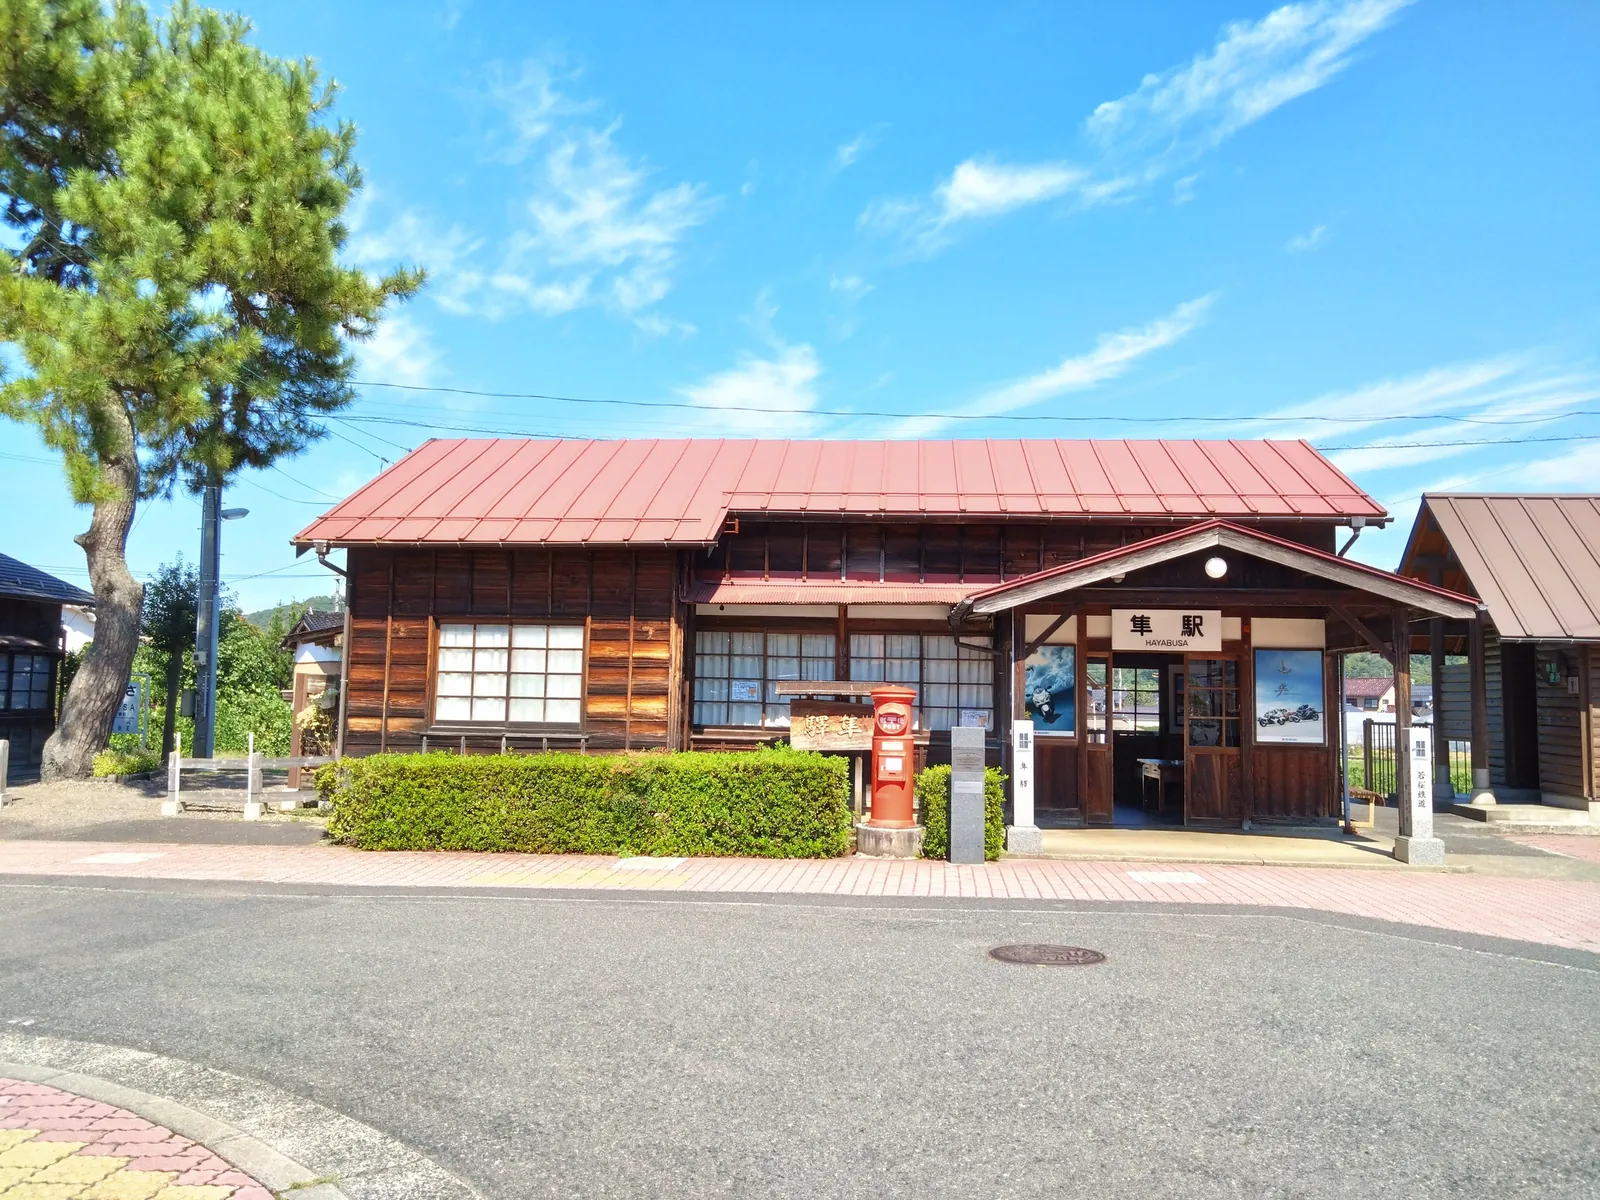
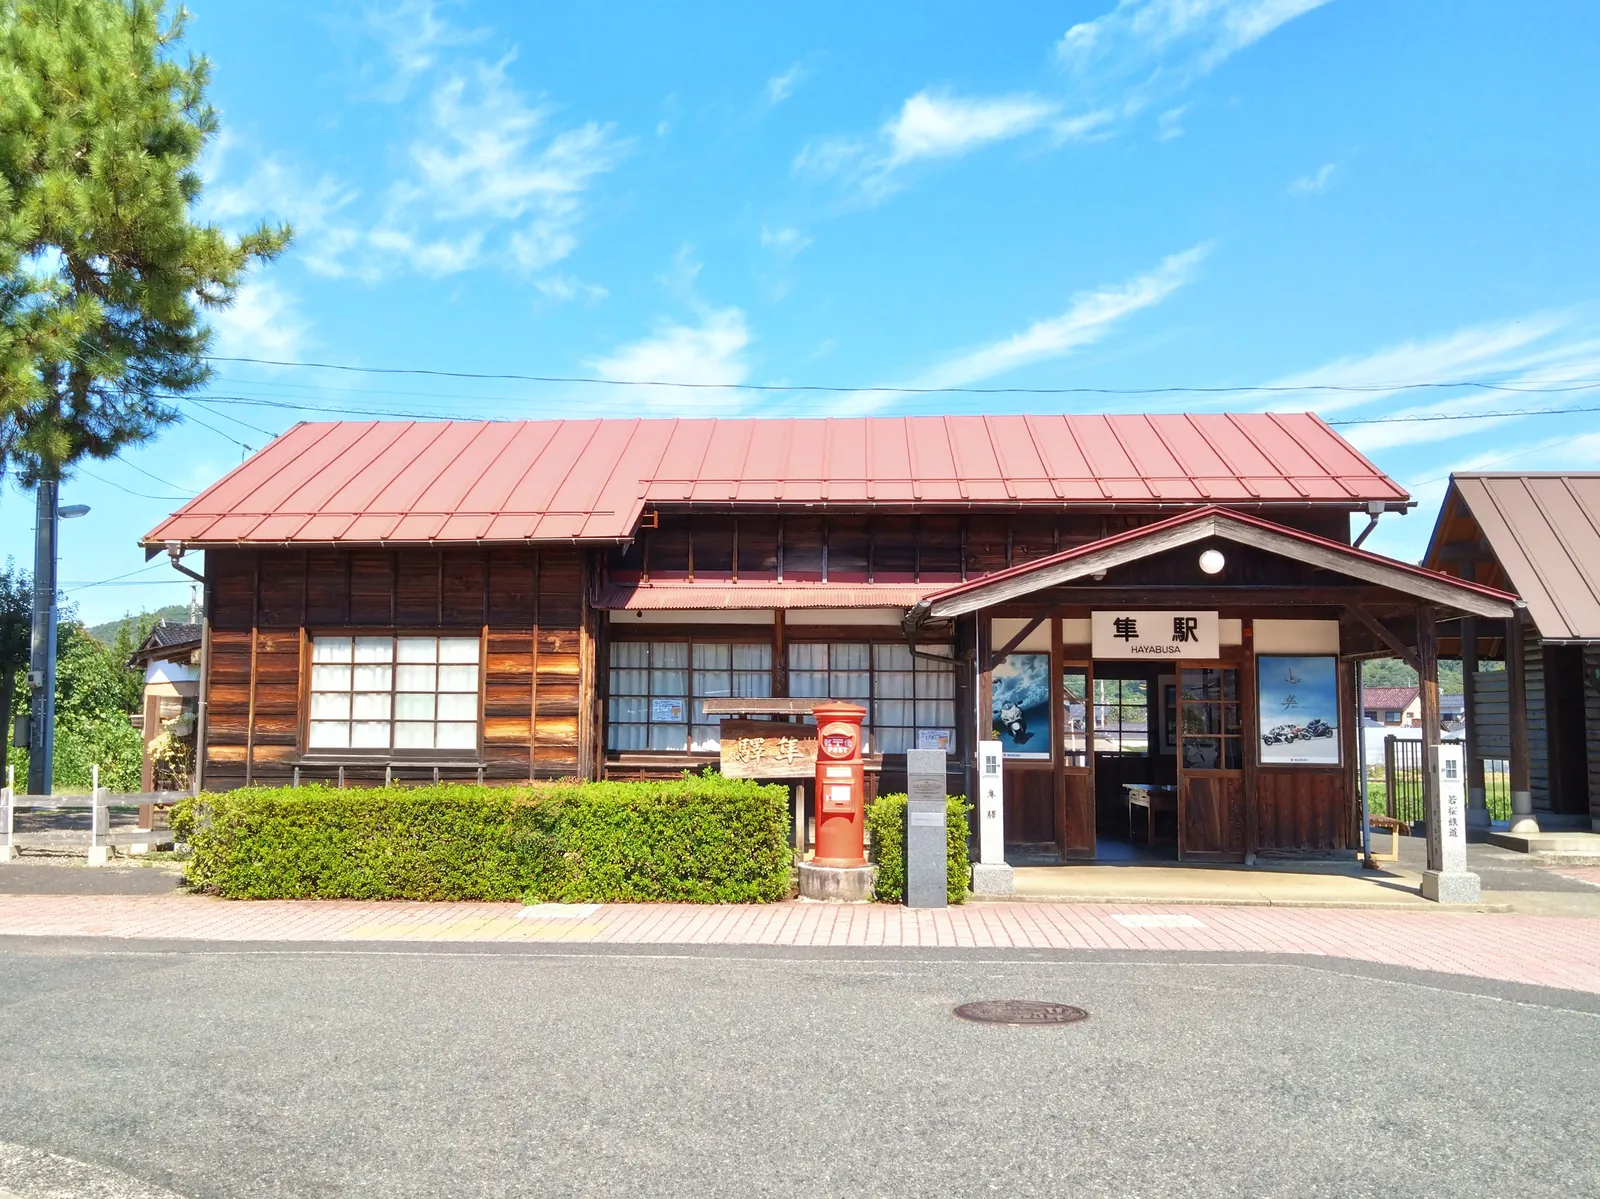
Add files via upload

diff --git a/index.html b/index.html
@@ -111,8 +111,7 @@
           </div>
         </div>
         <div class="row">
-          <!-- 仮画像：奥の個室の写真に差し替え -->
-          <div class="row-photo"><img src="private-room_temp.jpg" alt="奥の個室" loading="lazy" width="740" height="555"></div>
+          <div class="row-photo"><img src="private-room.webp" alt="奥の個室。引き戸で仕切られた掘りごたつ式の席が並ぶ" loading="lazy" width="1200" height="900"></div>
           <div>
             <span class="place">個室</span>
             <h3>落ち着ける個室</h3>
@@ -142,19 +141,19 @@
           <figure><img src="ramen-shoyu.webp" alt="中華そば" loading="lazy" width="1000" height="775"></figure>
           <h3>中華そば</h3>
           <p class="price">950円</p>
-          <p class="cap">豚清湯と魚介のWスープ、食べ慣れた味だけじゃなくちゃんと深みも出した</p>8823自慢の味です。</p>
+          <p class="cap">豚清湯と魚介のWスープ、食べ慣れた味だけじゃなくちゃんと深みも出した8823自慢の味です。</p>
         </div>
         <div>
           <figure><img src="ramen-shio.webp" alt="塩中華そば" loading="lazy" width="1000" height="779"></figure>
           <h3>塩中華そば</h3>
           <p class="price">950円</p>
-          <p class="cap">Wスープにもう一種類の魚介を重ねた、</p>あっさりながらも奥深い一杯。</p>
+          <p class="cap">Wスープにもう一種類の魚介を重ねた、あっさりながらも奥深い一杯。</p>
         </div>
         <div>
           <figure><img src="ramen-maze.webp" alt="魚介醤油まぜそば" loading="lazy" width="1000" height="851"></figure>
           <h3>魚介醤油まぜそば</h3>
           <p class="price">1,100円</p>
-          <p class="cap">魚粉の旨みとパンチある醤油ダレが絡む、</p>やみつきの一杯。</p>
+          <p class="cap">魚粉の旨みとパンチある醤油ダレが絡む、やみつきの一杯。</p>
         </div>
       </div>
 

diff --git a/README.md b/README.md
@@ -18,7 +18,7 @@ sitemap.xml             サイトマップ（本公開時に使用）
 .nojekyll               GitHub Pages の Jekyll 処理を無効化
 hero-ramen.webp         トップの全面メインビジュアル（PC用・横長）
 hero-ramen-sp.webp      同上（スマホ用・縦長）
-hayabusa.webp           ★仮画像：「隼のまちで」の背景写真（隼駅／Wikipediaから）
+hayabusa.webp           「隼のまちで」の背景写真（隼駅）
 noren.webp              店舗情報の上に全幅の帯で入るのれんの写真
 storefront.webp         現在は未使用（のれんの帯に差し替え。削除可）
 storefront.jpg          現在は未使用（削除可）
@@ -26,7 +26,7 @@ ramen-shoyu.jpg         中華そば（メニューPDFから切り出し）
 ramen-shio.jpg          塩中華そば（同上）
 kids-room.webp          2階キッズルームの写真
 teishoku.webp           「お店について」の定食の写真
-private-room_temp.jpg   ★仮画像：奥の個室
+private-room.webp       奥の個室の写真
 logo-navy.png / logo-cream.png
 ogp.jpg                 SNSでシェアされたときの画像（1200×630）
 ```
@@ -90,8 +90,6 @@ ogp.jpg                 SNSでシェアされたときの画像（1200×630）
       Allow: /
       Sitemap: https://ドメイン/sitemap.xml
       ```
-- [ ] **★hayabusa.webp を自分で撮影した隼駅の写真に差し替え**（Wikipediaの写真のまま公開しない）
-- [ ] **★private-room_temp.jpg を実際の個室の写真に差し替え**（他店の写真のまま公開しない）。ファイル名から `_temp` を外し、index.html の参照とコメントも更新
 - [ ] 店舗情報の追加確認：電話番号
 - [ ] Google Search Console にドメインを登録し、sitemap.xml を送信
 - [ ] Googleビジネスプロフィールの「ウェブサイト」欄にURLを登録
